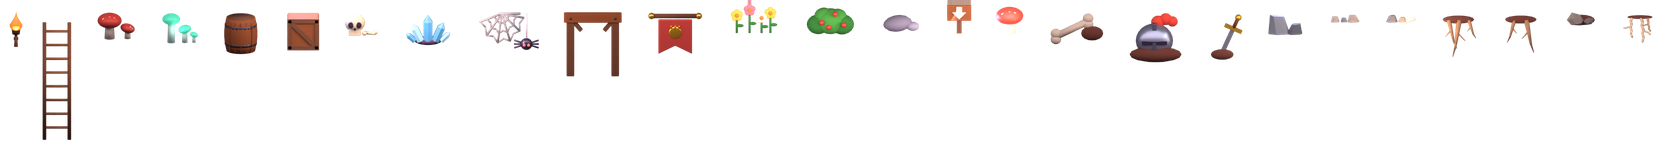
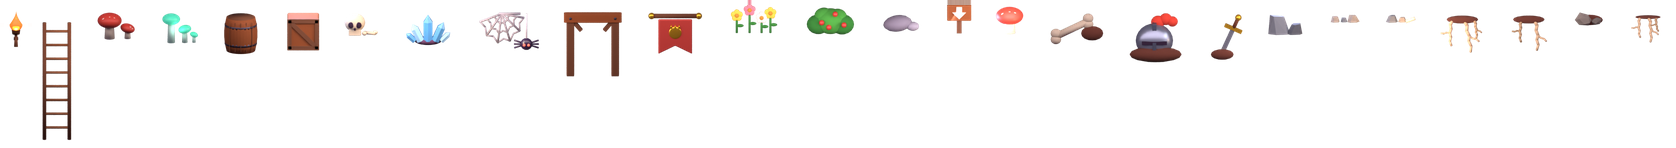
Hats: wortels in de dichte grond dun, kronkelig en beige zoals in de kamer (kan van Daan #164); #146 dicht; toetsen 8x0 FOUT
wortels_a en wortels_b uit versiering.py in dezelfde vorm als wand_wortels, wortels en zijtakken naar buiten zodat ze niet kruisen. Blad deco opnieuw (bpy 5.2.4). Bewijs bewijs-mooi/wortels-* (zaad 7, 292 s, 100% en 2x). Geen open spel nagekeken: alleen beeld uit eigen Blender-model.

Claude-Session: https://claude.ai/code/session_01RMWUyhTp4mYC5E28Gdyc2F

Changed region(s): [[0.1559, 0.0, 0.9353, 0.5135], [0.0312, 0.1622, 0.1559, 0.3514]]

diff --git a/producten/steam-hol/modellen/versiering.py b/producten/steam-hol/modellen/versiering.py
@@ -140,7 +140,7 @@ def wortel(ouder, naam, x, z, lengte, dik, buig, mat, tip):
         rot=(0, -zb, 0), verts=8, r2=dik * 0.35)
 
 
-def kronkel(ouder, naam, x, z, lengte, dik, buig, mat, zaad=0):
+def kronkel(ouder, naam, x, z, lengte, dik, buig, mat, zaad=0, zijkant=None):
     """Dunne wortel die kronkelend naar beneden hangt (Daan #153 M1): een ketting van korte stukjes die om en om
     een andere kant op buigen, bijna even dik tot de punt, een ronde punt en een zijtak op ongeveer een derde."""
     n = 6
@@ -158,7 +158,8 @@ def kronkel(ouder, naam, x, z, lengte, dik, buig, mat, zaad=0):
             zij = (nx, nz, hoek, r)
         px, pz = nx, nz
     zx, zz, zh, zr = zij
-    zh2 = zh + (0.9 if buig < 0 else -0.9)
+    # zijkant: +1 zijtak naar rechts, -1 naar links; zonder keuze tegen de buiging in (zoals in de kamer)
+    zh2 = zh + (0.9 if (buig < 0 if zijkant is None else zijkant > 0) else -0.9)
     for j in range(3):
         zh2 += -0.5 if j % 2 == 0 else 0.5
         ex, ez = zx + math.sin(zh2) * stuk * 0.7, zz - math.cos(zh2) * stuk * 0.7
@@ -244,15 +245,21 @@ def wand(ouder, p, naam, s):
                                                (2.3, 3.6, 0.32, 0.5, wd)]):
             kronkel(ouder, p + f"_w{i}", dx * s, -0.2 * s, l * s, d * s, b, mt, zaad=i * 3 + 1)
     elif naam in ("wortels_a", "wortels_b"):
-        wm = m("wortel", "9a7352", rough=0.85)
-        tip = m("wortel_tip", "5e4434", rough=0.9)
-        rij = ([(-2.4, 7.5, 0.6, 0.22), (0.2, 9.5, 0.72, -0.14), (2.6, 5.0, 0.5, 0.3)]
+        # Daan #164 (kan): de oude bruine spitse wortels in de dichte grond lazen als driehoeken en pasten niet meer bij
+        # de nieuwe wortels in de kamer. Nu dezelfde vorm: dun, kronkelig, licht beige, ronde punt, zijtak. Iets langer
+        # en een fractie dikker dan in de kamer, want hier hangen ze in de aarde onder het gras en niet in de lucht.
+        wm = m("wwortel", "c9ab86", rough=0.8)
+        wd = m("wwortel_d", "a88a68", rough=0.85)
+        # elke wortel buigt naar buiten en zijn zijtak ook, zodat ze elkaar niet kruisen (geen X of H op 120 px)
+        # (dx, lengte, dikte, buiging, kleur, zijkant, zaad): het zaad kiest of de eerste kronkel links of rechts gaat
+        # de buiging werkt tegen de eerste kronkel in, zodat ze vooral naar beneden hangen en niet als poten uitwaaieren
+        rij = ([(-2.6, 6.6, 0.42, 0.3, wm, -1, 1), (0.5, 8.4, 0.46, -0.1, wm, 1, 0), (3.0, 4.6, 0.36, -0.2, wd, 1, 0)]
                if naam == "wortels_a" else
-               [(-1.6, 6.0, 0.55, -0.25), (1.4, 8.5, 0.7, 0.18)])
-        for i, (dx, l, d, b) in enumerate(rij):
-            wortel(ouder, p + f"_w{i}", dx * s, 0, l * s, d * s, b, wm, tip)
-        # donkere vochtige plek waar ze uit de aarde komen
+               [(-1.8, 5.6, 0.40, 0.3, wd, -1, 1), (1.5, 7.8, 0.46, -0.25, wm, 1, 2)])
+        # donkere vochtige plek waar ze uit de aarde komen (eerst, zodat de wortels ervoor liggen)
         kluit(ouder, p + "_kluit", (0, 0.2 * s, 0.1 * s), (4.0 * s, 0.8 * s, 1.0 * s))
+        for i, (dx, l, d, b, mt, zk, zd) in enumerate(rij):
+            kronkel(ouder, p + f"_w{i}", dx * s, -0.2 * s, l * s, d * s, b, mt, zaad=zd, zijkant=zk)
 
 
 def bouw(naam, x, z, y=0.35):

diff --git a/producten/steam-hol/bewijs-mooi/LEESMIJ.md b/producten/steam-hol/bewijs-mooi/LEESMIJ.md
@@ -70,3 +70,9 @@ Daan (#153, akkoord nee, 7): M1 de wortels lazen als stekels en hingen ook in de
 - Bewijs (GEZIEN, zelfde opzet als hierboven: zaad 7, beeld op 292 s; boven main 6443ecc, onder nieuw): `wand2-voor-en-na-292s-ware-grootte.png`, `wand2-voor-en-na-links-2x.png`, `wand2-voor-en-na-rechts-2x.png`, `wand2-na-292s-ware-grootte.png`, en de twee stukken op 4x `wand2-stukken-4x.png`.
 - CPU (GEZIEN, zelfde meting als hierboven: 1920 x 1080, zaad 4242, koper=1, 130 s gemeten na 12 s, CPU-s per 10 s; oud = main 6443ecc). Oud eerst (6 paren): oud 0,998 / 0,990 / 1,021 / 0,984 / 0,978 / 0,963, nieuw 1,039 / 0,999 / 1,054 / 0,991 / 0,990 / 1,005 (+2,4 procent). Nieuw eerst (2 paren): nieuw 0,904 / 0,947, oud 0,943 / 0,990 (-4,2 procent). Wie als tweede draait is dus steeds duurder (de volgorde, niet de wand). Beide volgordes even zwaar: oud 0,978, nieuw 0,969, **-0,9 procent**, dus geen meetbare stijging. De wand wordt alleen bij graven of een put opnieuw getekend (geteld: 22 keer in 60 s).
 - Toetsen 8 x 0 FOUT (Godot 4.3 Linux). Blad `deco` opnieuw gerenderd (bpy 5.2.4).
+
+## Wortels in de dichte grond in dezelfde vorm (Mila 26 nov, kan van Daan #164)
+Daan (#164, akkoord ja, kan): in de dichte grond onder het gras stonden nog de oude bruine spitse wortels, die als driehoeken lazen en niet meer pasten bij de nieuwe beige wortels in de kamer. Nu hebben `wortels_a` (drie) en `wortels_b` (twee) dezelfde vorm als `wand_wortels`: dun, kronkelig, licht beige, ronde punt, een zijtak. Elke wortel en zijtak gaat naar buiten, zodat ze elkaar niet kruisen (een eerste poging las op 120 px als een X en een H). Iets langer dan in de kamer, want ze hangen in de aarde.
+- Kunst: `modellen/versiering.py` (`kronkel()` kreeg een keuze voor de kant van de zijtak; `wand_wortels` blijft gelijk), blad `deco` opnieuw gerenderd (bpy 5.2.4). Geen code van het spel veranderd, dus CPU gelijk (alleen andere pixels in hetzelfde blad, 1676 tegen 1672 px breed).
+- Bewijs (GEZIEN, Godot 4.3 Linux onder Xvfb, `--write-movie --fixed-fps 5`, `hoogte=120 vers=1 zaad=7 uitleg_klik=6 koper=1 koper_wacht=8 balk=0`, beeld op 292 s; boven main 222524b, onder nieuw; precies hetzelfde hol): `wortels-voor-en-na-292s-ware-grootte.png`, `wortels-voor-en-na-links-2x.png`, `wortels-voor-en-na-rechts-2x.png` (de wortels boven de kamer van Gloop en rechts ervan), en de stukken op 4x `wortels-stukken-4x.png` (boven oud, onder nieuw; rechts de kamerwortels ter vergelijking).
+- Toetsen 8 x 0 FOUT (Godot 4.3 Linux).

diff --git a/platformen/steam/logboek.md b/platformen/steam/logboek.md
@@ -2333,3 +2333,4 @@ Opdracht hoofdchat 23 nov (e2e Pro op de studiofiguren). Nieuwe workflow `cj-rig
 - 26 nov ±03:30 Mila (#96): de grond in lagen: vochtige bovenlaag met wortels, bot/helm/zwaard in de aarde, koele diepe rij met stenen, geen herhaalde kiezels meer (`steam-hol/bewijs-mooi/`); #76 dicht.
 - 26 nov ±08:15 Mila #146: lagen in de achterwand van gegraven gang en kamer (wortels boven, koeler en stenen onder, 3D uit Blender), CPU +0,7%, toetsen 8x0 FOUT; keuring Daan loopt.
 - 26 nov ±10:40 Mila #146 nakeuring Daan #153: wortels dun en beige alleen in de kamer, stenen minder en in de wand, gang koel als de diepe aarde; CPU geen stijging (-0,9%), toetsen 8x0 FOUT.
+- 26 nov ±10:59 Mila (#146 dicht, Daan #164 ja): oude spitse wortels in de dichte grond nu dun, kronkelig en beige zoals in de kamer (`steam-hol/bewijs-mooi/wortels-*`), toetsen 8x0 FOUT; keuring Daan loopt.
